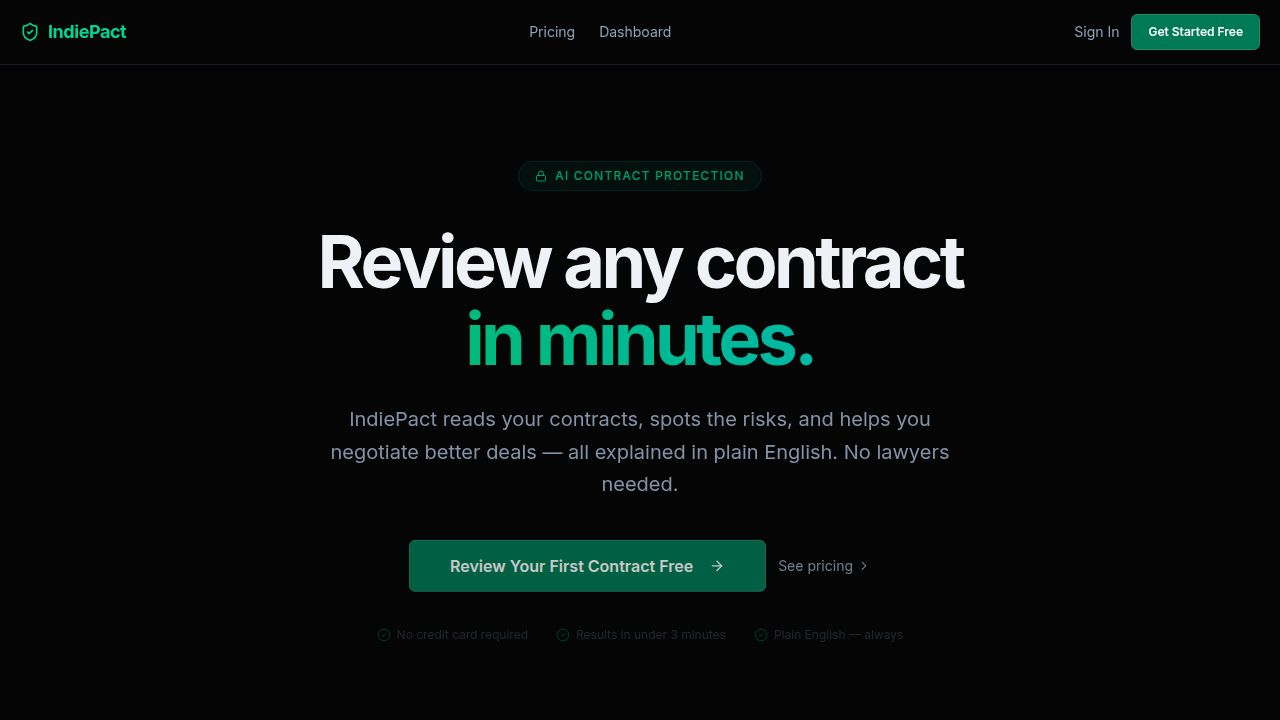
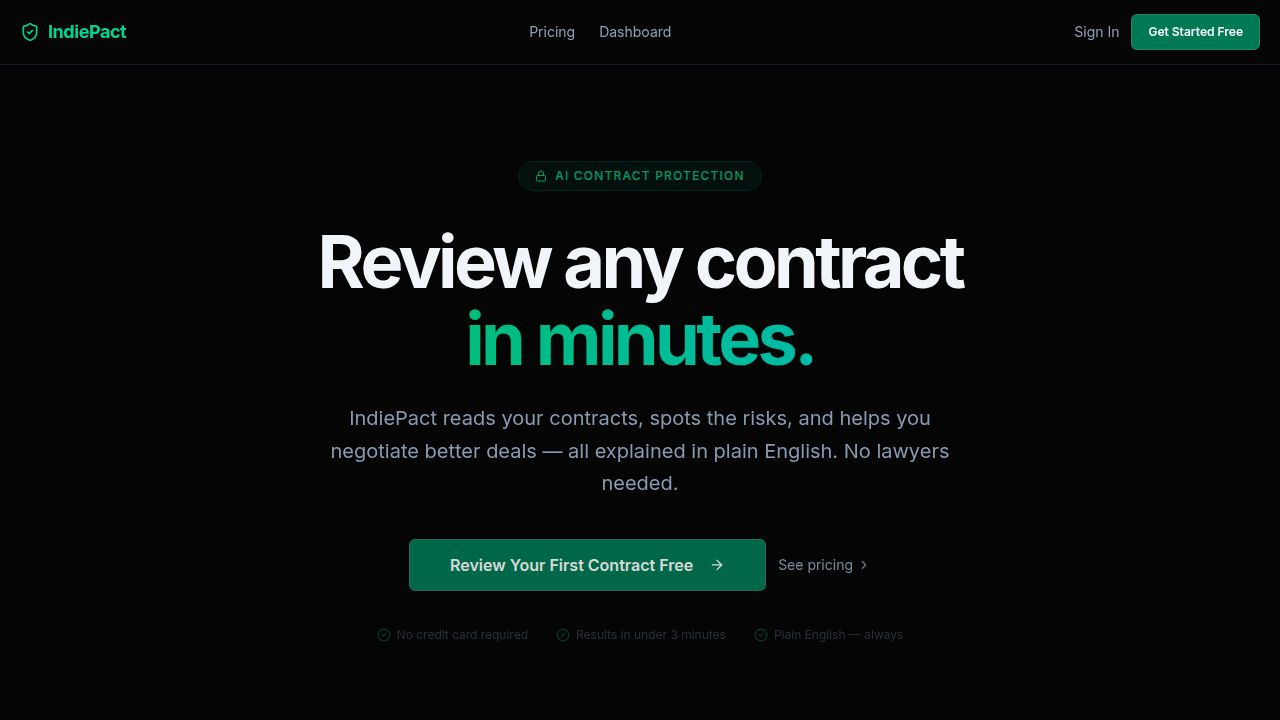
Fix build errors and improve navigation
Remove `"use client"` directive from UI components, update the homepage CTA to use client-side navigation, and configure a development proxy for API requests.

Replit-Commit-Author: Agent
Replit-Commit-Session-Id: d1067815-690d-4f9c-b73c-0a91a39d752f
Replit-Commit-Checkpoint-Type: full_checkpoint
Replit-Commit-Event-Id: 45a535e4-e684-44ff-8925-c425f00c5f68
Replit-Commit-Screenshot-Url: https://storage.googleapis.com/screenshot-production-us-central1/1f956cd1-3987-4f44-9130-b88ce551af89/d1067815-690d-4f9c-b73c-0a91a39d752f/YnpCU9D
Replit-Helium-Checkpoint-Created: true

Changed region(s): [[0.25, 0.55, 0.75, 0.7028], [0.3438, 0.7639, 0.5625, 0.825], [0.5938, 0.7639, 0.6562, 0.7944]]

diff --git a/artifacts/indiepact/vite.config.ts b/artifacts/indiepact/vite.config.ts
@@ -66,6 +66,24 @@ export default defineConfig({
     strictPort: true,
     host: "0.0.0.0",
     allowedHosts: true,
+    // In Replit dev the frontend and API run as separate workflows on different
+    // ports. The browser calls ${basePath}/api/* but Vite knows nothing about
+    // /api routes, so they 404 — which triggers the offline banner.
+    // This proxy forwards those requests to the local API server so the health
+    // check and any API calls work correctly during development.
+    // In production (Vercel) the vercel.json rewrite rule handles this instead.
+    ...(isReplitDev && process.env.API_SERVER_PORT
+      ? {
+          proxy: {
+            [`${basePath}api`]: {
+              target: `http://localhost:${process.env.API_SERVER_PORT}`,
+              changeOrigin: true,
+              rewrite: (p: string) =>
+                "/api" + p.slice(`${basePath}api`.length),
+            },
+          },
+        }
+      : {}),
     fs: {
       strict: false,
       allow: [path.resolve(import.meta.dirname, "../..")],

diff --git a/artifacts/indiepact/src/pages/Home.tsx b/artifacts/indiepact/src/pages/Home.tsx
@@ -1,5 +1,5 @@
 import { motion } from "framer-motion";
-import { Link } from "wouter";
+import { Link, useLocation } from "wouter";
 import { Button } from "@/components/ui/button";
 import { Accordion, AccordionContent, AccordionItem, AccordionTrigger } from "@/components/ui/accordion";
 import { useAuth } from "@/contexts/AuthContext";
@@ -269,11 +269,12 @@ export default function Home() {
   const statRefs = [stat0.ref, stat1.ref, stat2.ref, stat3.ref];
   const statVals = [stat0.val, stat1.val, stat2.val, stat3.val];
 
+  const [, navigate] = useLocation();
+
   const handleReviewCta = () => {
-    // Navigate directly to the contract workspace — auth is deferred until
-    // the user actually clicks "Review Contract", so they can paste first.
-    const base = (import.meta.env.BASE_URL as string).replace(/\/$/, "");
-    window.location.href = `${window.location.origin}${base}/scan`;
+    // Client-side navigation — avoids a full page reload that could 404
+    // on environments where the server doesn't handle SPA subroutes.
+    navigate("/scan");
   };
 
   return (

diff --git a/artifacts/indiepact/src/components/ui/label.tsx b/artifacts/indiepact/src/components/ui/label.tsx
@@ -1,5 +1,3 @@
-"use client"
-
 import * as React from "react"
 import * as LabelPrimitive from "@radix-ui/react-label"
 import { cva, type VariantProps } from "class-variance-authority"

diff --git a/artifacts/indiepact/src/components/ui/select.tsx b/artifacts/indiepact/src/components/ui/select.tsx
@@ -1,5 +1,3 @@
-"use client"
-
 import * as React from "react"
 import * as SelectPrimitive from "@radix-ui/react-select"
 import { Check, ChevronDown, ChevronUp } from "lucide-react"

diff --git a/artifacts/indiepact/src/components/ui/sheet.tsx b/artifacts/indiepact/src/components/ui/sheet.tsx
@@ -1,5 +1,3 @@
-"use client"
-
 import * as React from "react"
 import * as SheetPrimitive from "@radix-ui/react-dialog"
 import { cva, type VariantProps } from "class-variance-authority"

diff --git a/artifacts/indiepact/src/components/ui/tooltip.tsx b/artifacts/indiepact/src/components/ui/tooltip.tsx
@@ -1,5 +1,3 @@
-"use client"
-
 import * as React from "react"
 import * as TooltipPrimitive from "@radix-ui/react-tooltip"
 